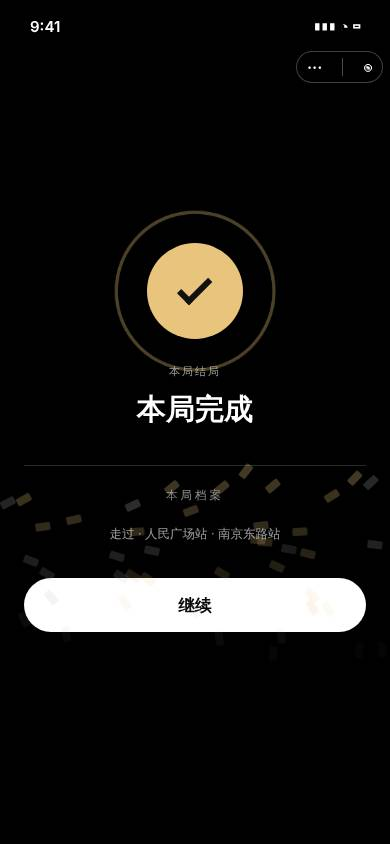
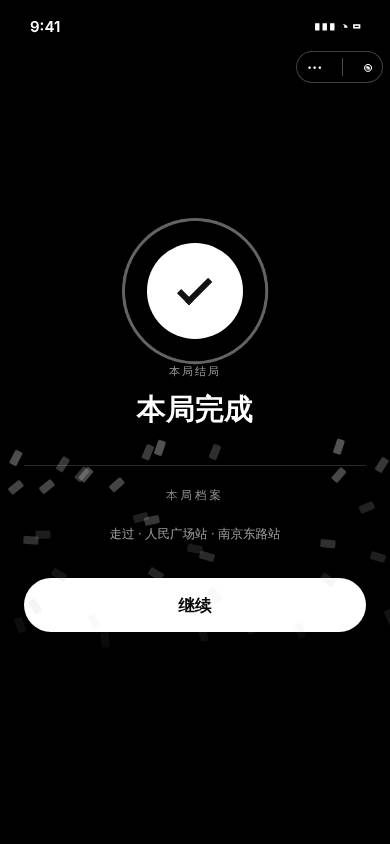
fix: 结局庆祝改黑白（游玩页单色契约）、完成页标题放进路线卡容器保持遮条与卡片相邻（r2-finish）
Claude-Session: https://claude.ai/code/session_01SUD7bP7xSQ6RBsZGHLgQNz

diff --git a/docs/delivery/questo-ui-20261109/r2-finish/RESULT.md b/docs/delivery/questo-ui-20261109/r2-finish/RESULT.md
@@ -9,7 +9,7 @@
 | ID | 状态 | 改了什么 | 文件 | 怎么验证 | 真机未验 |
 |---|---|---|---|---|---|
 | 章节结束（参考 `refs2/chapter-end-dissolve-frames.jpg` + Questo B1） | fixed | 原来上一章完成时是星点拼「01」方块数字。现在改成一张完成卡，结构照 Questo B1：金色勾 →「第 N 章完成」→ 章节名 → 用时 / 本章得分 / 坐标 →「下一站：南京东路站」。卡停 5.2 秒（或点「下一站」）后整张卡从左往右化成粒子飘散，接着升起下一章的三棱锥（原有的下一章过场不变）。用时是本局跑表，读不到整行不出；本章得分只在本章有计分题时出；下一站取本章第一个没完成的节点。减弱动态时卡照样停留，只去掉溶解动画。 | `pages/play/components/chapter-flip/index.{js,wxml,wxss}`、`engine.js`、`pages/play/utils/chapter-flip-data.js`、`pages/play/index.js`（只改 `showChapterGate` 传用时、兜底计时 7.8→10.8 秒） | rig 两章主题（`rig/two_chapter_theme.py`）真实跑完第 1 章：`chapter-end-before` / `chapter-end-after`（完成卡）/ `chapter-end-dissolve-after`（溶解中）。单测 `chapter-flip.test.js` 新增一例（行、下一站、不拿 0 凑） | 真机粒子帧率；headless 里粒子飘得偏慢 |
-| s0-b1-run-ending | fixed | 「本局完成」结局页加庆祝：金色印章弹入、两圈光环外扩、金色彩旗落下（共用 `cy-celebrate`，这里放慢到 2.2 秒）。内容整屏居中。减弱动态时印章直接落位，不出光环和彩旗。 | `pages/play/index.{wxml,wxss}`（结局 `pv-ending` 段） | rig 真实通关：`s0-b1-run-ending-before` / `-after`（彩旗下落中截到） | 真机动效 |
+| s0-b1-run-ending | fixed | 「本局完成」结局页加庆祝：白色印章弹入、两圈光环外扩、彩旗落下（共用 `cy-celebrate`，这里放慢到 2.2 秒）。游玩页有单色契约（`play-monochrome-contract`），所以这里用黑白，不用金色；章节完成卡在独立组件里，沿用原型的金色。内容整屏居中。减弱动态时印章直接落位，不出光环和彩旗。 | `pages/play/index.{wxml,wxss}`（结局 `pv-ending` 段） | rig 真实通关：`s0-b1-run-ending-before` / `-after`（彩旗下落中截到） | 真机动效 |
 | s0-b8-u08-01 | fixed | 完成页收拾：有路线卡时，日期 / 主题名 / 已通关提到最上面，卡在下面；卡上已经写了距离、用时、站数，下面不再重复大数字「2」和用时、距离两格；底部按钮放在实底托盘上（原来的黑色光晕盖不住，大数字从按钮下面露出来）；整局走完时多一颗「查看结算」。 | `pages/play/index.{js,wxml,wxss}`（完成面板段） | `s0-b8-u08-01-before` / `-after` / `-scrolled-after`，同一局真实通关 | — |
 | 结算流程（总览 → 排行榜 → 评价 → 分享） | fixed | 新页 `subpackageJourney/pages/settle`，从完成页「查看结算」或战报页「结算」进入。顺序照 Questo 裁成 4 屏：<br>1. 总览：结果、主题名、本关名次、分数 / 节点 / 用时（都读战报；用时未知整格不出；通关时撒彩旗）。<br>2. 排行榜：和战报共用新榜单组件。<br>3. 评价：五星 + 一句话，可跳过；走既有 `/api/comment/add`（主题 owner_type=1，场次 2）；错误红字写在字段下面。<br>4. 分享卡：帖文 4:5 / 故事 9:16，分享（点了才签推广凭据，失败回落公开主题页）、保存图片、分享视频。<br>视频：基础库有 `wx.createMediaRecorder` + `wx.shareVideoMessage` 时，把分享卡入场动画录 3 秒再走微信视频分享；没有这两个接口就不出按钮。返回键在流程里是退一步。 | `subpackageJourney/pages/settle/*`（新）、`subpackageJourney/utils/share-card.js`（新）、`subpackageJourney/utils/journey-api.js`、`app.json`（分包加一页） | rig：`settle-overview-after`、`settle-rank-after`、`settle-rate-error-after`（没写字就点提交）、`settle-share-post-after`、`settle-share-story-after`。另外真实提交过一次评价（4 星 + 一句话），接口返回成功后进入分享屏。单测 `r2-finish-settlement.test.js` | 视频录制与微信视频分享（rig 不能录）；保存到相册；微信分享卡 |
 | b3-23-4-3 | fixed | 榜单口径收少：本关只给「队内」（服务端给了队伍才出）/「全体」/「队伍」（有队伍之间榜才出），城市、国家、世界、俱乐部收进一个「更多」下拉。选了「更多」里的榜后，「全体」留在左边可以点回来。好友榜见待你决定 1。 | `subpackageJourney/components/rank-board/*`（新）、`subpackageJourney/utils/journey-view.js` | `b3-23-4-3-before` / `-after`（更多菜单）/ `-city-after` | — |
